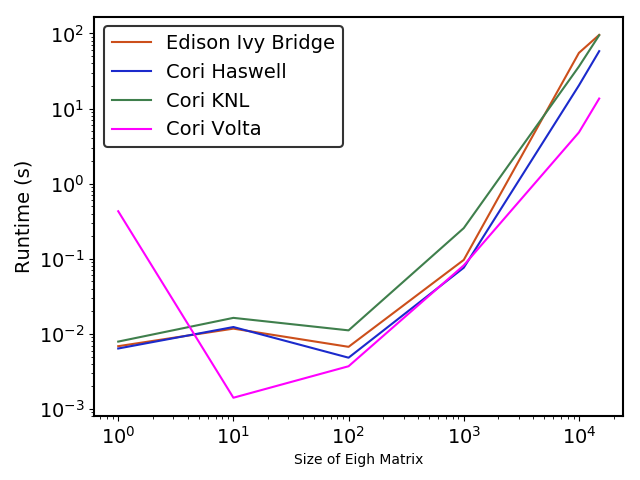
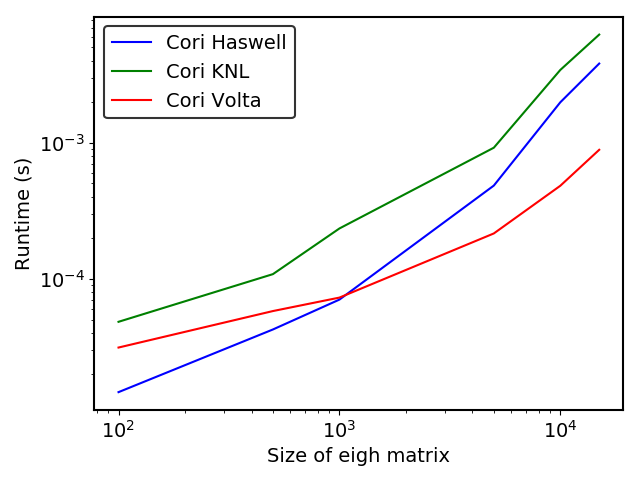
new fig 9, changes to gpu section, remove scare quotes

diff --git a/papers/laurie_stephey/stephey_thomas_bailey.rst b/papers/laurie_stephey/stephey_thomas_bailey.rst
@@ -39,7 +39,7 @@ Optimizing Python-Based Spectroscopic Data Processing on NERSC Supercomputers
 
    The goal of this work is to improve the performance of DESI's
    spectroscopic data processing pipeline at NERSC while satisfying their productivity requirement that
-   the software remain in Python. Within this space we have obtained "specific" (per node-hour) throughput
+   the software remain in Python. Within this space we have obtained specific (per node-hour) throughput
    improvements of over 5x and 6x on the Cori Haswell and Knights Landing partitions,
    respectively. Several profiling techniques were used to determine potential
    areas for improvement including Python's cProfile and line_profiler packages, 
@@ -185,7 +185,7 @@ cProfile
 
 .. figure:: figures/cpu_2.png
    :align: center
-   :scale: 20%
+   :scale: 15%
    :figclass: wt
 
    This is an example image created from data collected using cProfile and
@@ -586,41 +586,55 @@ partition that will provide a large fraction of the system's overall FLOPS, so
 it is pertinent to examine if and how the DESI code could take advantage of
 these accelerated nodes.
 
-Since GPUs are quite different from CPUs, it may be necessary to
+Since GPUs are fundamentally different from CPUs, it may be necessary to
 rethink much of the way in which the DESI spectral extraction is performed. At
-the moment, each CCD frame is divided into 20 bundles, and each bundle is
-divided into 60 patches, and each of those 60 patches is further divided into 6
-smaller subbundles. Though this division of a larger frame into smaller pieces
-makes sense for CPU architectures, it doesn't make sense for GPU architectures.
-In fact for GPUs often the opposite is true: the programmer should give the GPU
-as much work as possible to keep it occupied and make the relatively expensive
-transfer of data between the host and device worthwhile. This means that to
-help the DESI extraction code run efficiently on GPUs it will likely require a
-major restructuring to better adapt the problem for the capabilities of the
-hardware.
+the moment, each CCD frame is divided into 7200 overlapping subregions such
+that each matrix to solve is typically 400x400 elements. Though this division
+of a larger frame into smaller pieces makes sense for CPU architectures, it may
+not be optimal for GPU architectures. In fact for GPUs often the opposite is
+true: the programmer should give the GPU as much work as possible to keep it
+occupied; thus it may be beneficial to operate on a smaller number of larger
+matrices.  Additionally, it may be necessary to change the code so that the
+matrices are both constructed and solved on the GPU to bypass inefficient
+subregion bookkeeping, which is currently interleaved between constructing and
+solving the matrices, and avoid expensive data transfer. This means that
+helping the DESI extraction code run efficiently on GPUs could require a major
+restructuring to better adapt the problem for the capabilities of the hardware.
 
 Preliminary testing is underway to give some indication of what we might expect
 from a major overhaul. From profiling information we expect that the
-scipy.linalg.eigh function will constitute a major part of the workload as
+scipy.linalg.eigh function will constitute a larger part of the workload as
 matrix sizes increase. We have measured the runtime of scipy.lialg.eigh and
-cupy.linalg.eigh :cite:`noauthor_cupy.linalg.eigh_nodate` on Edison Ivy Bridge
-and Cori Haswell, KNL, and the new Cori Volta GPUs. Figure :ref:`eigh` shows
-the eigh runtime for various sizes of positive definite input matrices. These
-results show that at low matrix sizes, perhaps unsurprisingly, the Volta
-performs poorly, but at larger matrix sizes (above 1000) the Volta performance
-dominates by an order of magnitude. This demonstrates, at least for scipy eigh,
-that breaking the DESI frame into fewer, larger pieces for a GPU could result
-in substantial performance gains. Of course the question is 1) is this large
-restructuring worthwhile and 2) if so, what is the best approach? As we have
-detailed above, we have had reasonably good success with Numba, which also
-supports GPU offloading. Other options are CuPy :cite:`noauthor_cupy_nodate`,
-which aims to be a drop-in replacement for NumPy, pyCUDA
-:cite:`noauthor_pycuda_nodate`, and pyOpenCL :cite:`noauthor_pyopencl_nodate`.
-How best to support GPU offloading without having to fill the DESI code with
-distinct CPU and GPU blocks, and additionally avoid being tied to a particular
-vendor, is still an open question for us.
+cupy.linalg.eigh :cite:`noauthor_cupy.linalg.eigh_nodate` as an initial test
+case on Cori Haswell, KNL, and the new Cori Volta GPUs. (We could not make
+these measurements on Edison Ivy Bridge because it has now been
+decommissioned.) Figure :ref:`eigh` shows the eigh runtime for various sizes of
+positive definite input matrices. These data show that for larger matrix sizes
+(above approximately 1000) the Volta begins to outperform the CPUs. However,
+these data do not include any possible gains from a divide-and-conquer approach
+(which has proven very successful for DESI). Investigating this strategy is
+near-term future work.
 
-.. figure:: figures/eigh_scan.png
+This eigh study is just the first of many planned GPU experiments. DESI has
+additional matrix preparation steps, bookkeeping, and special function
+evaluations (like legval) which also constitute a large part of their total
+workload. At this time it is unclear which of these might perform well on the
+GPU and make the relatively expensive host to device data transfer worthwhile.
+We will perform many experiments to evaluate how well each of these are suited
+to the GPU (or perhaps not suited to the GPU) as future work.
+
+We should note that one of the major conclusions of this case study has been
+that large restructuring efforts have been worthwhile for DESI. If indeed we
+choose to embark upon another major restructure for GPUs, what is the best
+approach? As we have detailed above, we have had reasonably good success with
+Numba, which also supports GPU offloading. Other options are CuPy
+:cite:`noauthor_cupy_nodate`, which aims to be a drop-in replacement for NumPy,
+pyCUDA :cite:`noauthor_pycuda_nodate`, and pyOpenCL
+:cite:`noauthor_pyopencl_nodate`. How best to support GPU offloading without
+having to fill the DESI code with distinct CPU and GPU blocks, and additionally
+to avoid being tied to a particular vendor, is still an open question for us.
+
+.. figure:: figures/eigh.png
 
    Data from performing an eigh matrix decomposition of various sizes on Edison
    Ivy Bridge, Cori Haswell, Cori KNL, and Cori Volta. We used CuPy to perform
